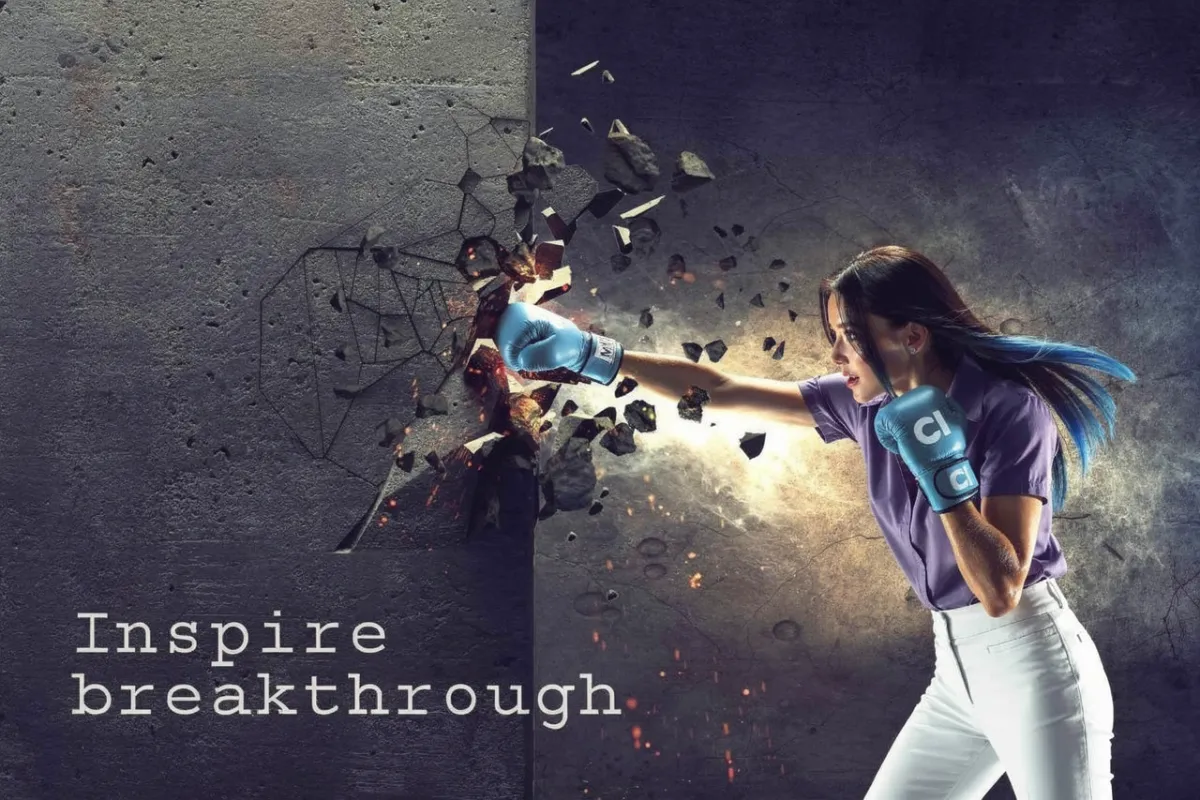
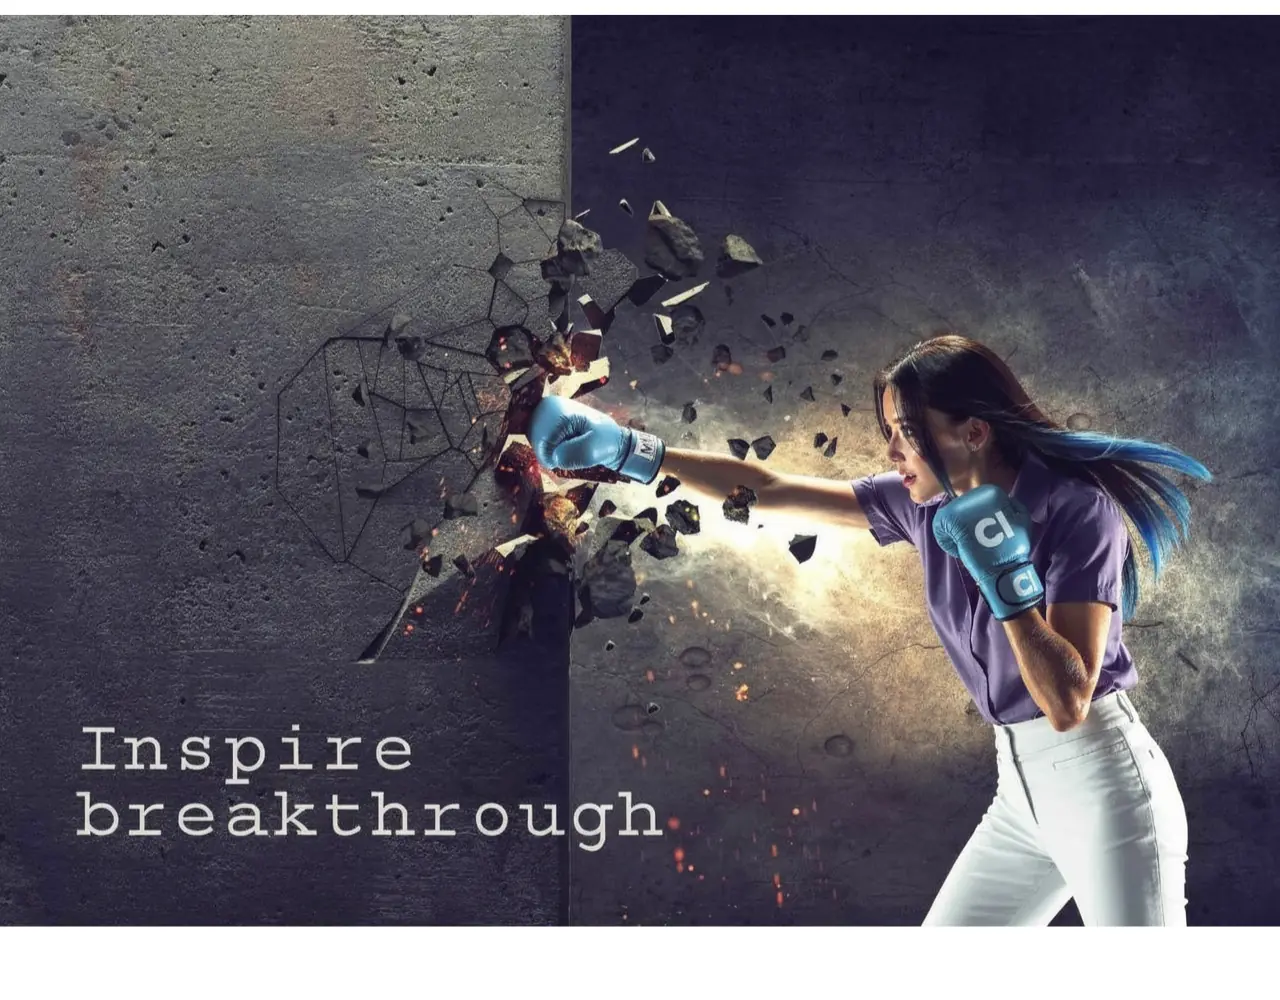
swapped SME image again

diff --git a/public/index.html b/public/index.html
@@ -745,7 +745,7 @@
           <div class="space-y-8 md:space-y-0">
             <div class="grid lg:grid-cols-2 gap-0 items-center bg-white mb-0 ">
               <div class="relative h-[300px] md:h-[400px] lg:h-[500px] bg-gray-100 ">
-                <img height="800" width="1200" src="assets/img/main/team-breakthrough.webp" alt="TeamWorks Program" class="w-full h-full object-cover"/>
+                <img height="1000" width="1280" src="assets/img/main/team-breakthrough.webp" alt="TeamWorks Program" class="w-full h-full object-cover"/>
               </div>
               <div class="p-6 md:p-10 lg:p-16 ">
                 <div class="mb-3 md:mb-4">
